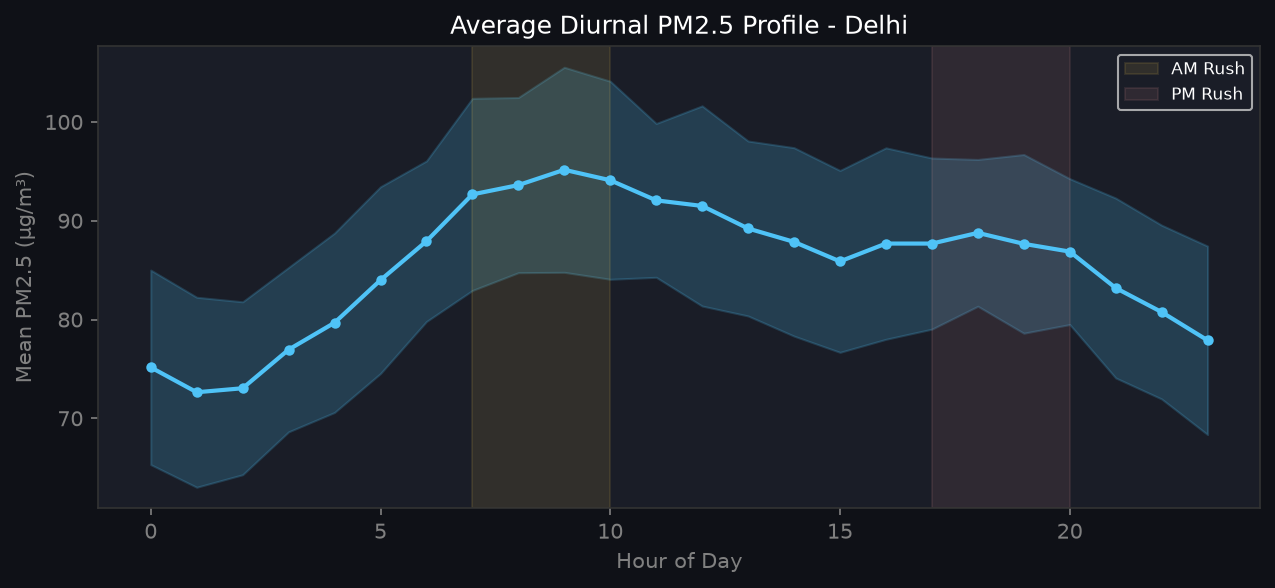
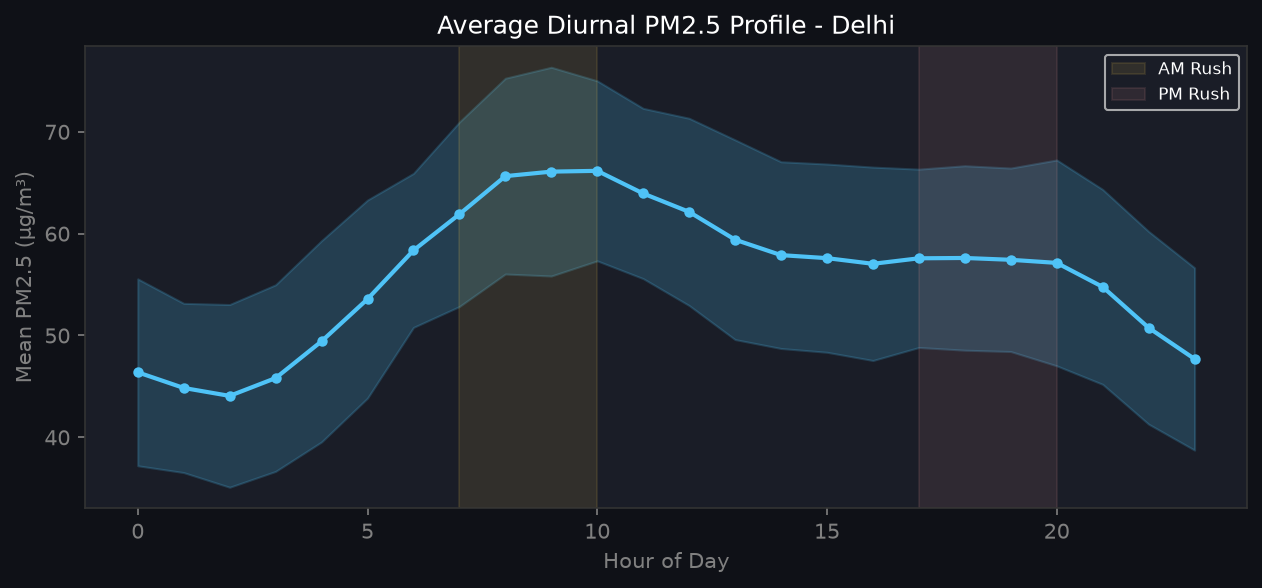
Update UI padding, fix script directory, and refresh figures

diff --git a/src/dashboard/app.py b/src/dashboard/app.py
@@ -77,7 +77,7 @@ st.markdown("""
 html, body, [class*="css"] {
     font-family: 'Inter', sans-serif !important;
 }
-.block-container { padding: 1rem 2rem 3rem 2rem !important; max-width: 1400px; }
+.block-container { padding: 4rem 2rem 3rem 2rem !important; max-width: 1400px; }
 
 /* ───── Tabs ───── */
 .stTabs [data-baseweb="tab-list"] {
